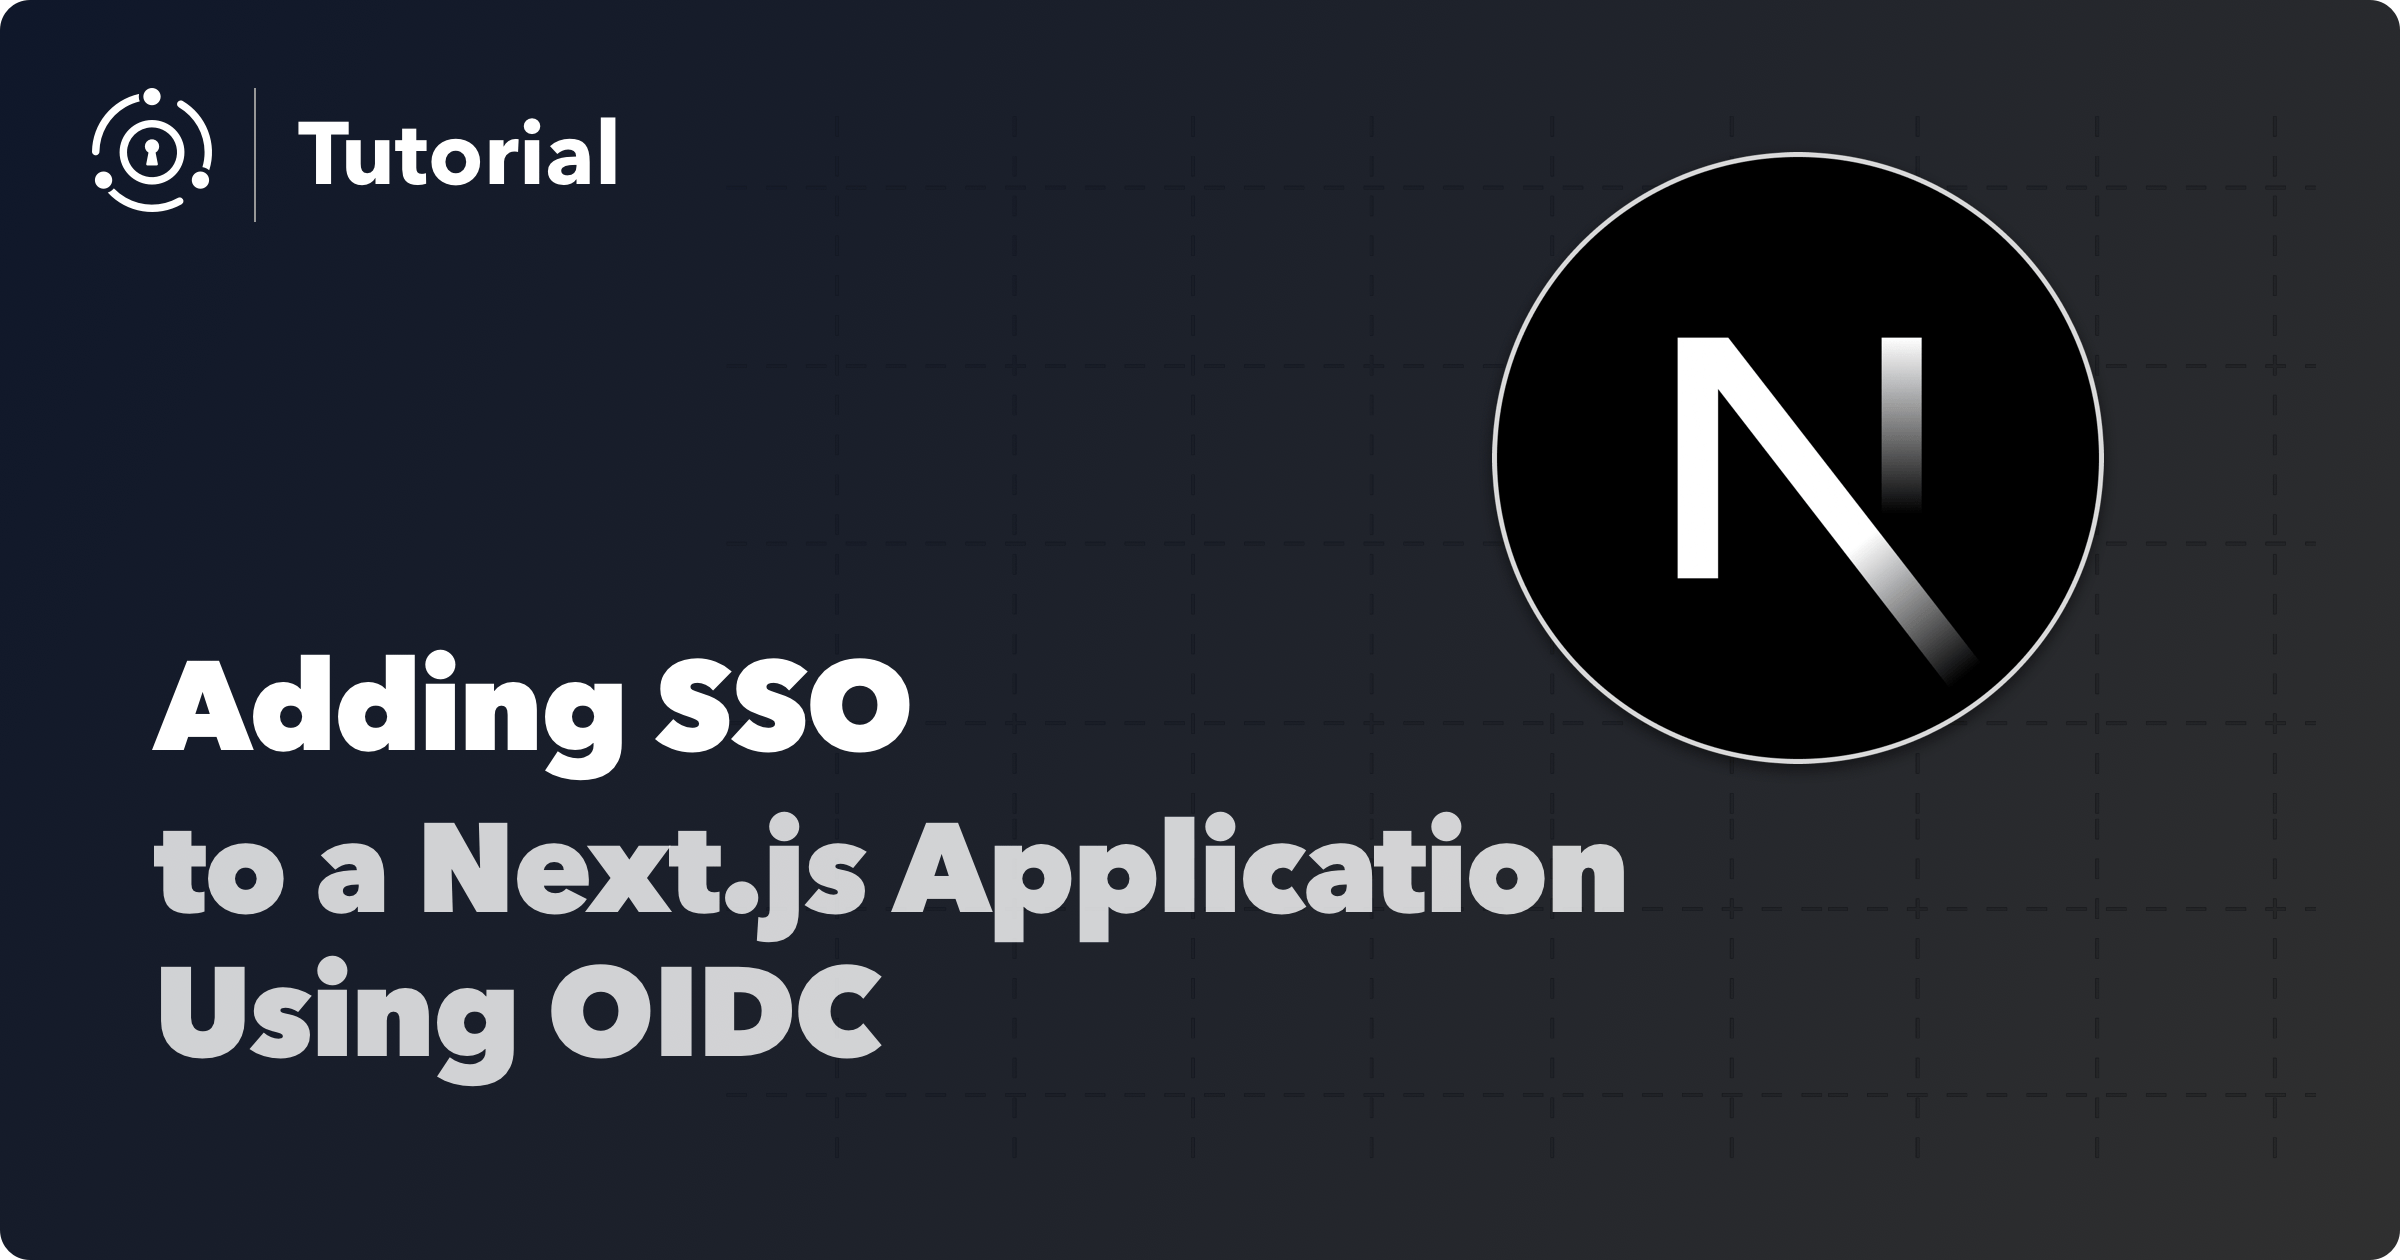
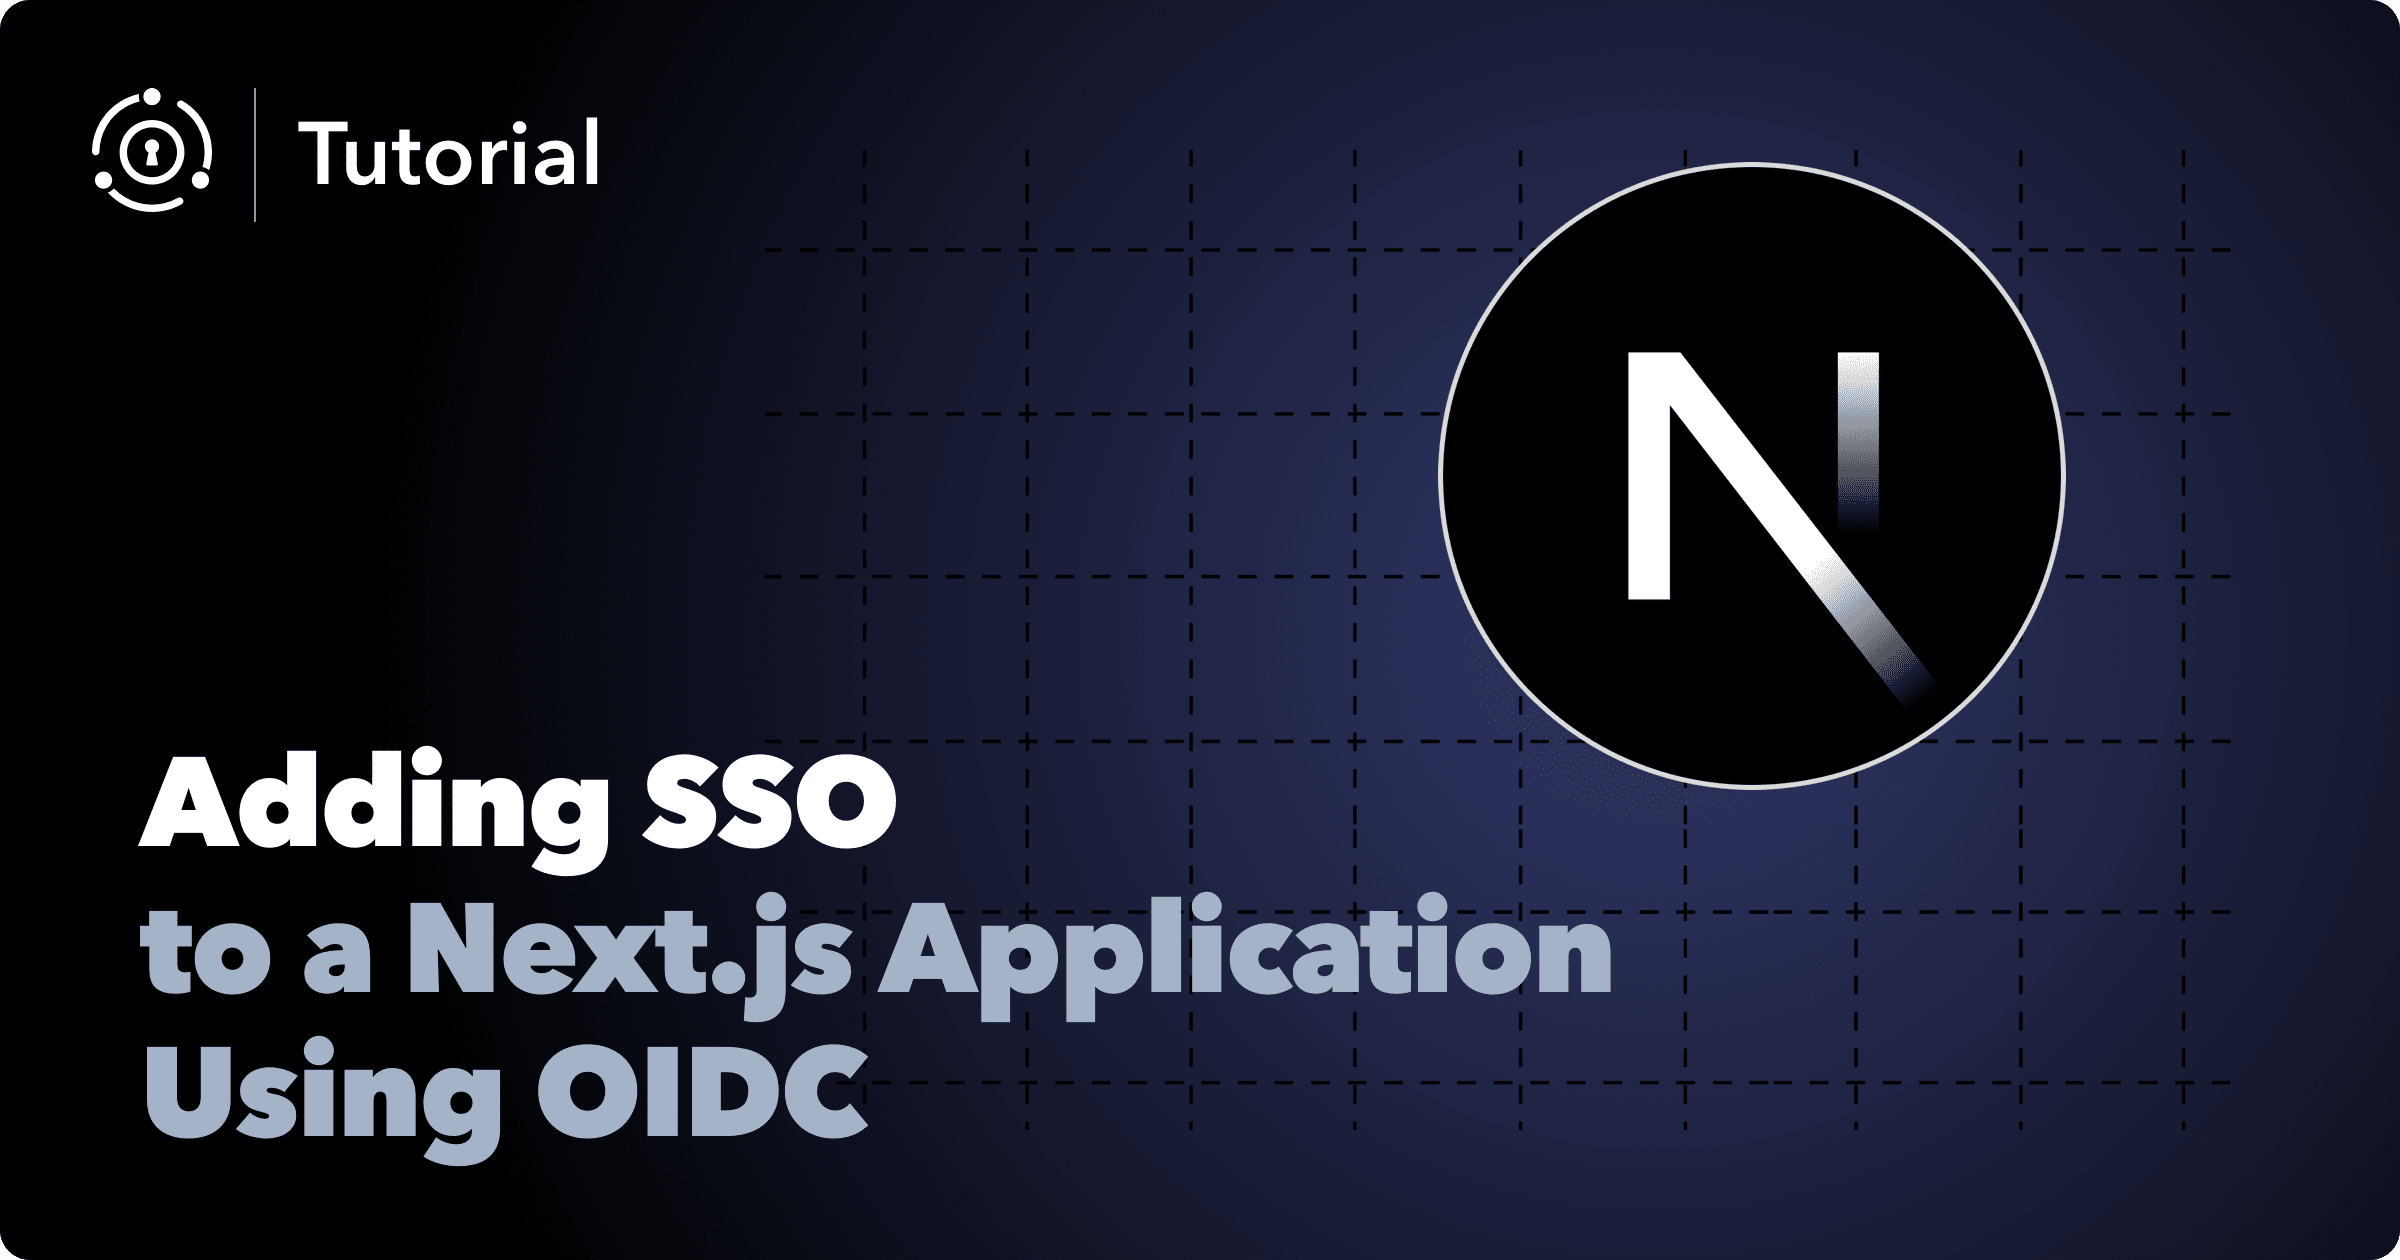
Updated nextjs header image

diff --git a/astro/.astro/types.d.ts b/astro/.astro/types.d.ts
@@ -1303,47 +1303,47 @@ declare module 'astro:content' {
   collection: "blog",
   data: any
 } & { render(): Render[".mdx"] },
-  "easy-integration-of-fusionauth-and-spring.mdx": {
-    id: "easy-integration-of-fusionauth-and-spring.mdx",
-    slug: "easy-integration-of-fusionauth-and-spring",
-    body: string,
-    collection: "blog",
-    data: any
-  } & { render(): Render[".mdx"] },
-  "extending-fusionauth-roles-with-cerbos.mdx": {
-    id: "extending-fusionauth-roles-with-cerbos.mdx",
-    slug: "extending-fusionauth-roles-with-cerbos",
-    body: string,
-    collection: "blog",
-    data: any
-  } & { render(): Render[".mdx"] },
-  "firebase-and-fusionauth-ciam-comparison.mdx": {
-    id: "firebase-and-fusionauth-ciam-comparison.mdx",
-    slug: "firebase-and-fusionauth-ciam-comparison",
-    body: string,
-    collection: "blog",
-    data: any
-  } & { render(): Render[".mdx"] },
-  "fitt-finder-fusionauth.mdx": {
-    id: "fitt-finder-fusionauth.mdx",
-    slug: "fitt-finder-fusionauth",
-    body: string,
-    collection: "blog",
-    data: any
-  } & { render(): Render[".mdx"] },
-  "fusionauth-advanced-mfa.mdx": {
-    id: "fusionauth-advanced-mfa.mdx",
-    slug: "fusionauth-advanced-mfa",
-    body: string,
-    collection: "blog",
-    data: any
-  } & { render(): Render[".mdx"] },
-  "fusionauth-and-svb.mdx": {
-    id: "fusionauth-and-svb.mdx",
-    slug: "fusionauth-and-svb",
-    body: string,
-    collection: "blog",
-    data: any
+"easy-integration-of-fusionauth-and-spring.mdx": {
+  id: "easy-integration-of-fusionauth-and-spring.mdx",
+  slug: "easy-integration-of-fusionauth-and-spring",
+  body: string,
+  collection: "blog",
+  data: any
+} & { render(): Render[".mdx"] },
+"extending-fusionauth-roles-with-cerbos.mdx": {
+  id: "extending-fusionauth-roles-with-cerbos.mdx",
+  slug: "extending-fusionauth-roles-with-cerbos",
+  body: string,
+  collection: "blog",
+  data: any
+} & { render(): Render[".mdx"] },
+"firebase-and-fusionauth-ciam-comparison.mdx": {
+  id: "firebase-and-fusionauth-ciam-comparison.mdx",
+  slug: "firebase-and-fusionauth-ciam-comparison",
+  body: string,
+  collection: "blog",
+  data: any
+} & { render(): Render[".mdx"] },
+"fitt-finder-fusionauth.mdx": {
+  id: "fitt-finder-fusionauth.mdx",
+  slug: "fitt-finder-fusionauth",
+  body: string,
+  collection: "blog",
+  data: any
+} & { render(): Render[".mdx"] },
+"fusionauth-advanced-mfa.mdx": {
+  id: "fusionauth-advanced-mfa.mdx",
+  slug: "fusionauth-advanced-mfa",
+  body: string,
+  collection: "blog",
+  data: any
+} & { render(): Render[".mdx"] },
+"fusionauth-and-svb.mdx": {
+  id: "fusionauth-and-svb.mdx",
+  slug: "fusionauth-and-svb",
+  body: string,
+  collection: "blog",
+  data: any
 } & { render(): Render[".mdx"] },
 "fusionauth-announces-biotech.mdx": {
   id: "fusionauth-announces-biotech.mdx",
@@ -1359,50 +1359,50 @@ declare module 'astro:content' {
   collection: "blog",
   data: any
 } & { render(): Render[".mdx"] },
-  "fusionauth-colorado-company-to-watch.mdx": {
-    id: "fusionauth-colorado-company-to-watch.mdx",
-    slug: "fusionauth-colorado-company-to-watch",
-    body: string,
-    collection: "blog",
-    data: any
-  } & { render(): Render[".mdx"] },
-  "fusionauth-family-model-consent-management.mdx": {
-    id: "fusionauth-family-model-consent-management.mdx",
-    slug: "fusionauth-family-model-consent-management",
-    body: string,
-    collection: "blog",
-    data: any
-  } & { render(): Render[".mdx"] },
-  "fusionauth-g2-high-performer.mdx": {
-    id: "fusionauth-g2-high-performer.mdx",
-    slug: "fusionauth-g2-high-performer",
-    body: string,
-    collection: "blog",
-    data: any
-  } & { render(): Render[".mdx"] },
-  "fusionauth-inc-5000.mdx": {
-    id: "fusionauth-inc-5000.mdx",
-    slug: "fusionauth-inc-5000",
-    body: string,
-    collection: "blog",
-    data: any
-  } & { render(): Render[".mdx"] },
-  "fusionauth-introduces-pass-wordle.mdx": {
-    id: "fusionauth-introduces-pass-wordle.mdx",
-    slug: "fusionauth-introduces-pass-wordle",
-    body: string,
-    collection: "blog",
-    data: any
-  } & { render(): Render[".mdx"] },
-  "fusionauth-introduces-simplepass.mdx": {
-    id: "fusionauth-introduces-simplepass.mdx",
-    slug: "fusionauth-introduces-simplepass",
-    body: string,
-    collection: "blog",
-    data: any
-  } & { render(): Render[".mdx"] },
-  "fusionauth-lambda-http-connect.mdx": {
-    id: "fusionauth-lambda-http-connect.mdx",
+"fusionauth-colorado-company-to-watch.mdx": {
+  id: "fusionauth-colorado-company-to-watch.mdx",
+  slug: "fusionauth-colorado-company-to-watch",
+  body: string,
+  collection: "blog",
+  data: any
+} & { render(): Render[".mdx"] },
+"fusionauth-family-model-consent-management.mdx": {
+  id: "fusionauth-family-model-consent-management.mdx",
+  slug: "fusionauth-family-model-consent-management",
+  body: string,
+  collection: "blog",
+  data: any
+} & { render(): Render[".mdx"] },
+"fusionauth-g2-high-performer.mdx": {
+  id: "fusionauth-g2-high-performer.mdx",
+  slug: "fusionauth-g2-high-performer",
+  body: string,
+  collection: "blog",
+  data: any
+} & { render(): Render[".mdx"] },
+"fusionauth-inc-5000.mdx": {
+  id: "fusionauth-inc-5000.mdx",
+  slug: "fusionauth-inc-5000",
+  body: string,
+  collection: "blog",
+  data: any
+} & { render(): Render[".mdx"] },
+"fusionauth-introduces-pass-wordle.mdx": {
+  id: "fusionauth-introduces-pass-wordle.mdx",
+  slug: "fusionauth-introduces-pass-wordle",
+  body: string,
+  collection: "blog",
+  data: any
+} & { render(): Render[".mdx"] },
+"fusionauth-introduces-simplepass.mdx": {
+  id: "fusionauth-introduces-simplepass.mdx",
+  slug: "fusionauth-introduces-simplepass",
+  body: string,
+  collection: "blog",
+  data: any
+} & { render(): Render[".mdx"] },
+"fusionauth-lambda-http-connect.mdx": {
+  id: "fusionauth-lambda-http-connect.mdx",
   slug: "fusionauth-lambda-http-connect",
   body: string,
   collection: "blog",
@@ -1978,6 +1978,13 @@ declare module 'astro:content' {
 "rbac-with-kubernetes-fusionauth.mdx": {
   id: "rbac-with-kubernetes-fusionauth.mdx",
   slug: "rbac-with-kubernetes-fusionauth",
+  body: string,
+  collection: "blog",
+  data: any
+} & { render(): Render[".mdx"] },
+"react-example-application.mdx": {
+  id: "react-example-application.mdx",
+  slug: "react-example-application",
   body: string,
   collection: "blog",
   data: any
